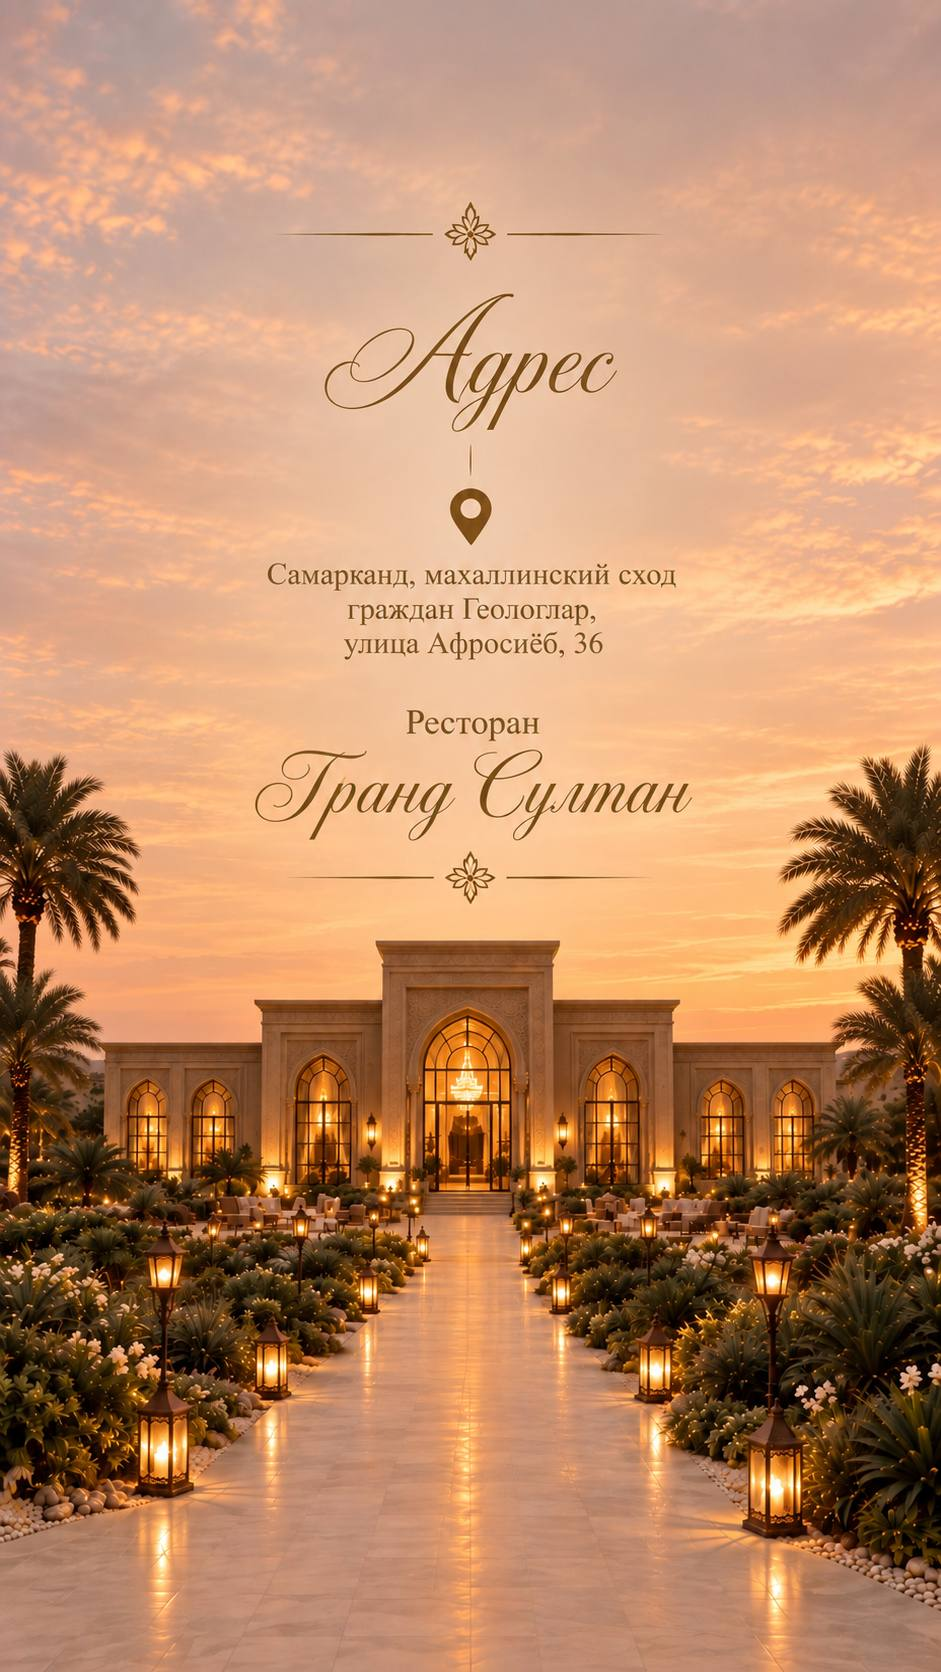
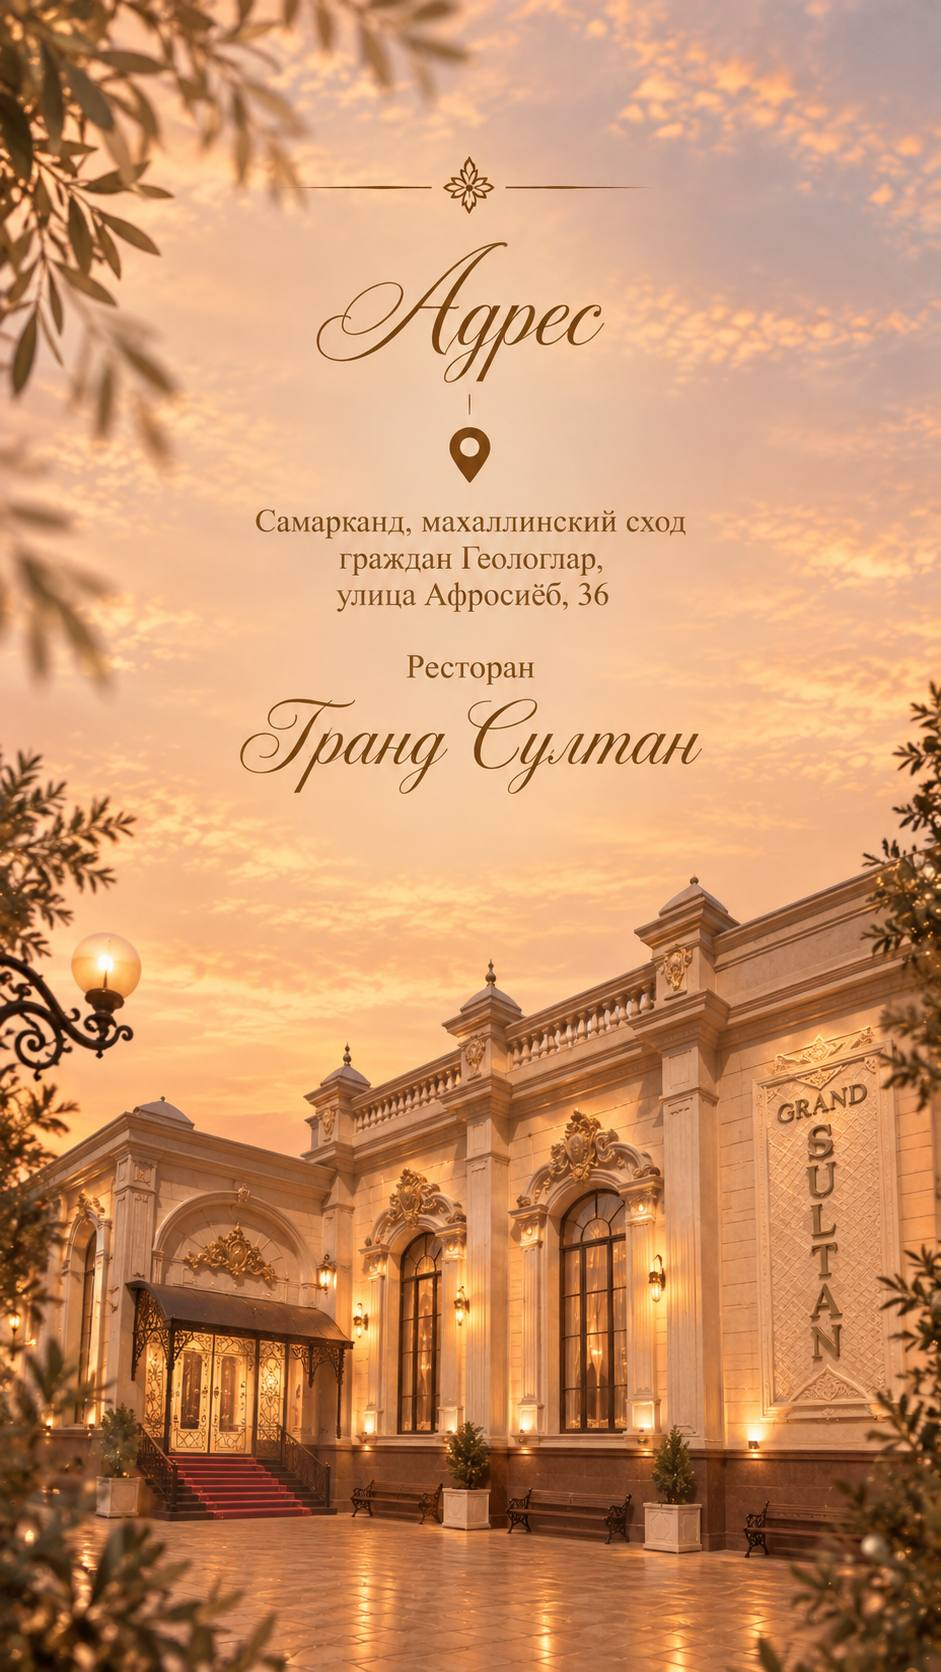
Smooth timeline-to-location transition, uppercase final date

diff --git a/src/style.css b/src/style.css
@@ -438,8 +438,8 @@ h2 {
   left: 0;
   right: 0;
   bottom: 0;
-  height: 160px;
-  background: linear-gradient(to bottom, transparent, rgba(225,187,144,.9));
+  height: 224px;
+  background: linear-gradient(to bottom, rgba(225,187,144,.15), rgba(225,187,144,1));
   pointer-events: none;
 }
 
@@ -457,8 +457,8 @@ h2 {
   left: 0;
   right: 0;
   top: 0;
-  height: 160px;
-  background: linear-gradient(to bottom, rgba(225,187,144,.9), transparent);
+  height: 224px;
+  background: linear-gradient(to bottom, rgba(225,187,144,1), rgba(225,187,144,.15));
   pointer-events: none;
 }
 
